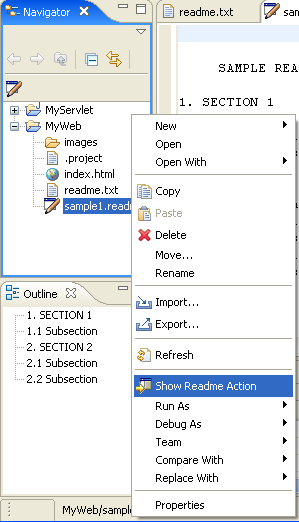
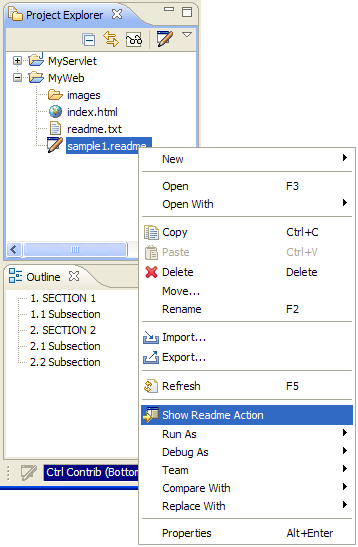
bug #192209 - [Actions] Actions doc screenshots out of date

diff --git a/bundles/org.eclipse.platform.doc.isv/samples/samples.html b/bundles/org.eclipse.platform.doc.isv/samples/samples.html
@@ -2,7 +2,7 @@
 <html>
 <head>
 
-<meta name="copyright" content="Copyright (c) IBM Corporation and others 2000, 2005. This page is made available under license. For full details see the LEGAL in the documentation book that contains this page." >
+<meta name="copyright" content="Copyright (c) IBM Corporation and others 2000, 2007. This page is made available under license. For full details see the LEGAL in the documentation book that contains this page." >
 
    <meta http-equiv="Content-Type" content="text/html; charset=iso-8859-1">
    <script language="JavaScript" src="PLUGINS_ROOT/org.eclipse.help/livehelp.js"></script>
@@ -18,7 +18,7 @@
  Installing examples via the Update Manager</h3>
 
 <p>
-The Eclipse SDK examples are found on the Eclipse project update site at <a href="http://update.eclipse.org/updates/3.3/">http://update.eclipse.org/updates/3.3/</a>.
+The Eclipse SDK examples are found on the Eclipse project update site.
 To locate and install them into a product:</p>
 
 <ol>
@@ -29,17 +29,14 @@ To locate and install them into a product:</p>
   <b>Help &gt; Software Updates &gt; Find and Install</b></a>
 
   . This opens the Install Wizard.</li>
-  <li> Select <b>Search for new features</b> and click <b>Next</b>.</li>
-  <li> Select <b>Eclipse Project update site</b>.  If it is not there,
-  	add an update site by clicking <b>New Remote Site </b>. In the <b>New Update Site</b>
-  	dialog that opens, give the site the name &quot;Eclipse Project&quot; and URL
-	&quot;<a href="http://update.eclipse.org/updates">http://update.eclipse.org/updates</a>&quot;. 
-  </li>
+  <li> Select <b>Search for new features to install</b> and click <b>Next</b>.</li>
+  <li> Select <b>The Eclipse Project Updates</b>  site.</li>
   <li>Click <b>Next</b> and wait for the search results to return all the 
   features found on that site.</li>
-  <li>Select the SDK Examples feature and click <b>Next</b>. </li>
+  <li>Select <b>Eclipse SDK <i>ver</i></b> where <i>ver</i> is the version number of the Eclipse release.  Expand this category.</li>
+  <li>Select the <b>Eclipse SDK Examples</b> feature and click <b>Next</b>. </li>
   <li>Accept the license and click <b>Next</b>.</li>
-  <li> Select the directory into which the example feature is to be installed and hit <b>Next</b>.</li>
+  <li>Select the directory into which the example feature is to be installed and hit <b>Next</b>.</li>
   <li> <p>Click <b>Install</b> to allow the downloading and installing
     to proceed.</p></li>
   <li> Click <b>Yes</b> when asked to exit and restart the workbench for the
